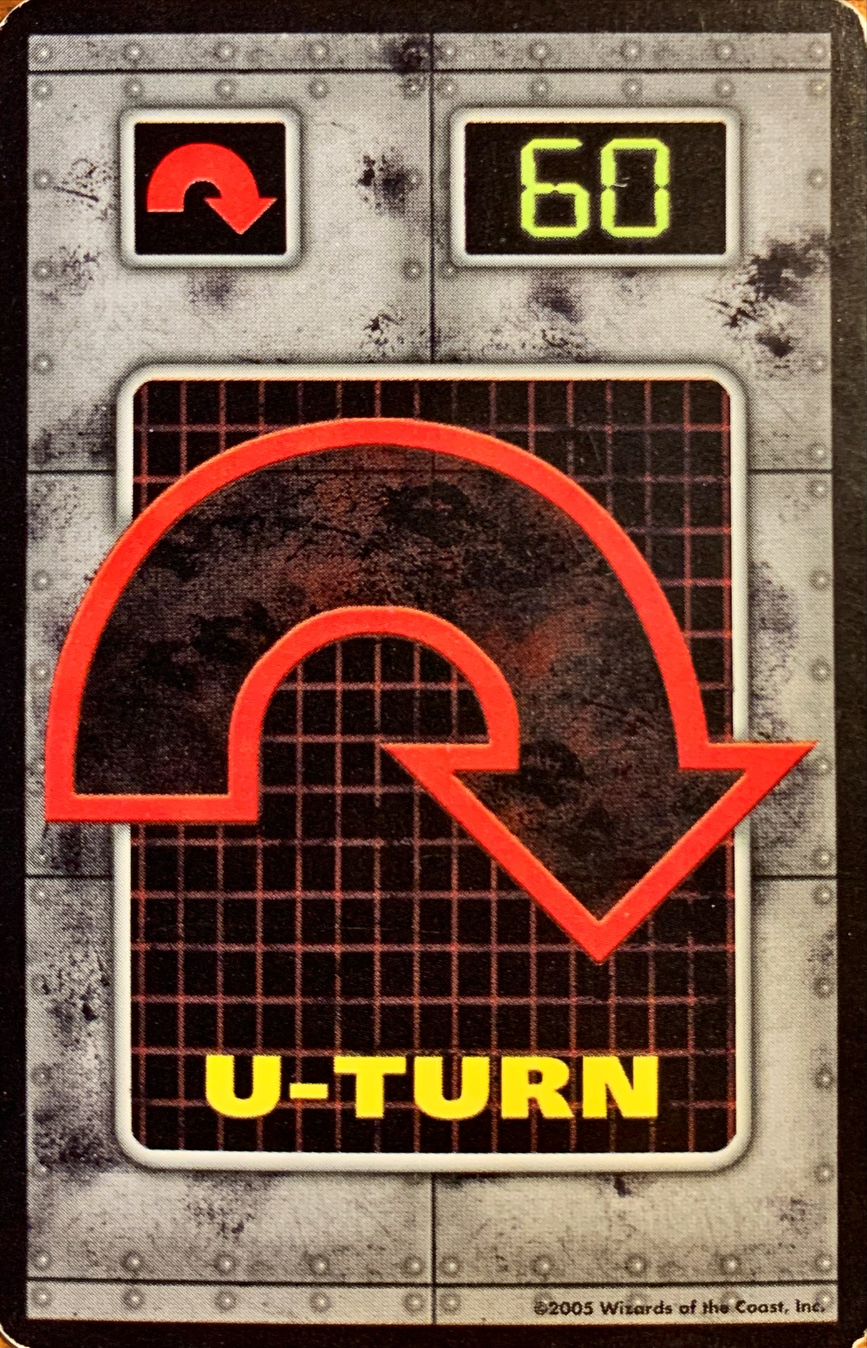
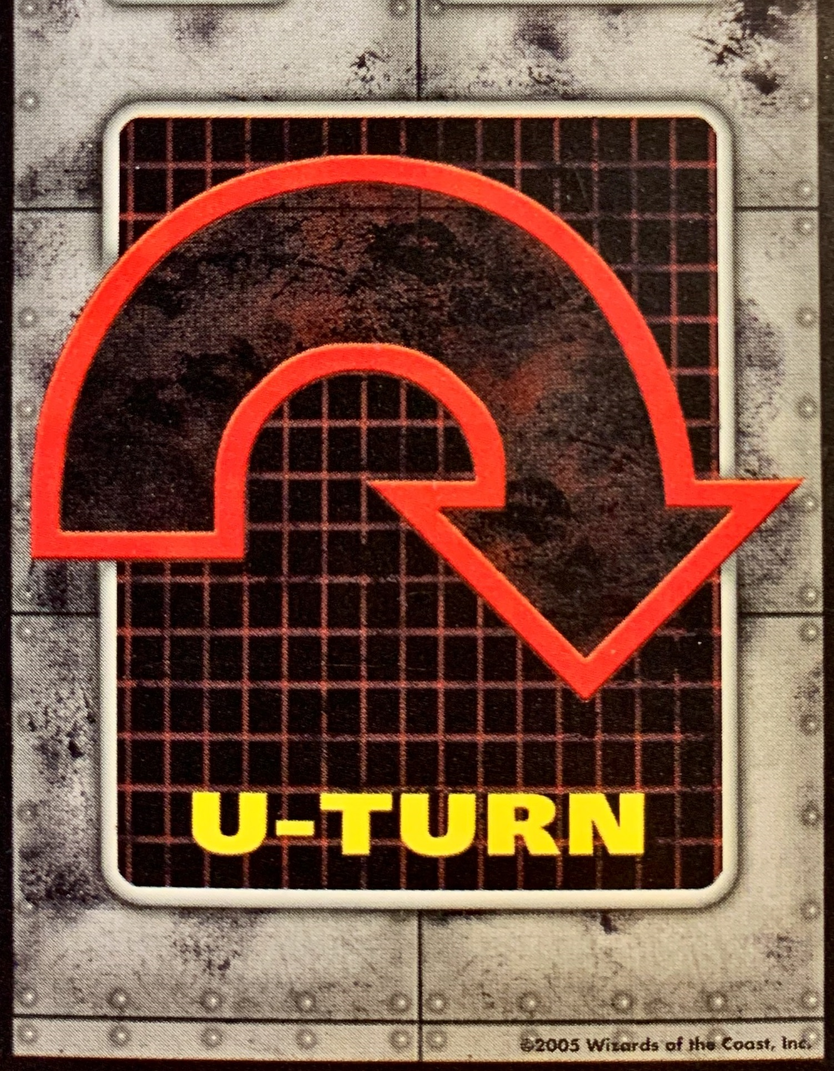
Crops specific priority numbers from cards

diff --git a/Robo Rally/src/main/java/inf112/RoboRally/app/HUD/CardViewer.java b/Robo Rally/src/main/java/inf112/RoboRally/app/HUD/CardViewer.java
@@ -27,6 +27,7 @@ public class CardViewer {
         stage = new Stage(viewport, spriteBatch); // create stage with the viewport and the batch given in constructor
         Gdx.input.setInputProcessor(stage); // let the stage take clickable inputs (?)
 
+
         // Create tables to set their positions (x,y)
         Table table1 = new Table();
         table1.left().bottom();
@@ -114,16 +115,6 @@ public class CardViewer {
         table8.setPosition(10.5f, 12f);
         table9.setPosition(12f, 12f);
 
-        // Set debug-mode ON to reveal true gridlines of tables (outer red lines showing table positioning)
-        table1.setDebug(true);
-        table2.setDebug(true);
-        table3.setDebug(true);
-        table4.setDebug(true);
-        table5.setDebug(true);
-        table6.setDebug(true);
-        table7.setDebug(true);
-        table8.setDebug(true);
-        table9.setDebug(true);
 
         // Add actors to stage to enable inputProcessor to register clicks (?)
         stage.addActor(table1);
